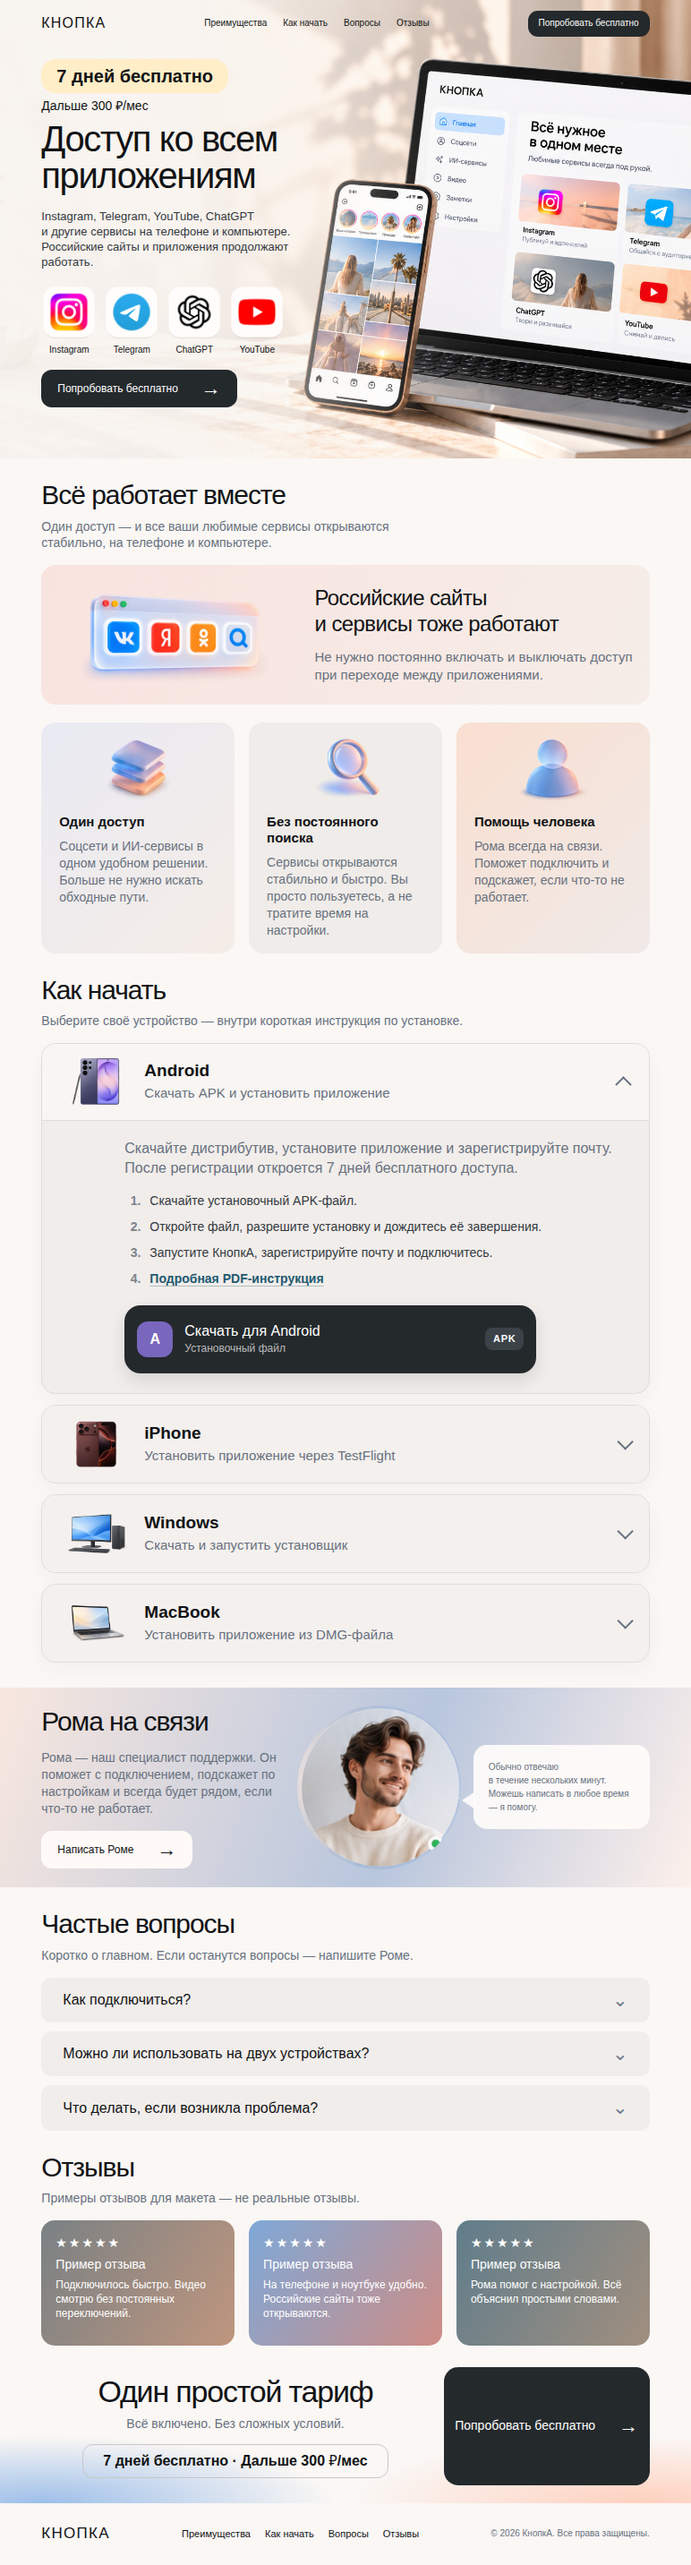
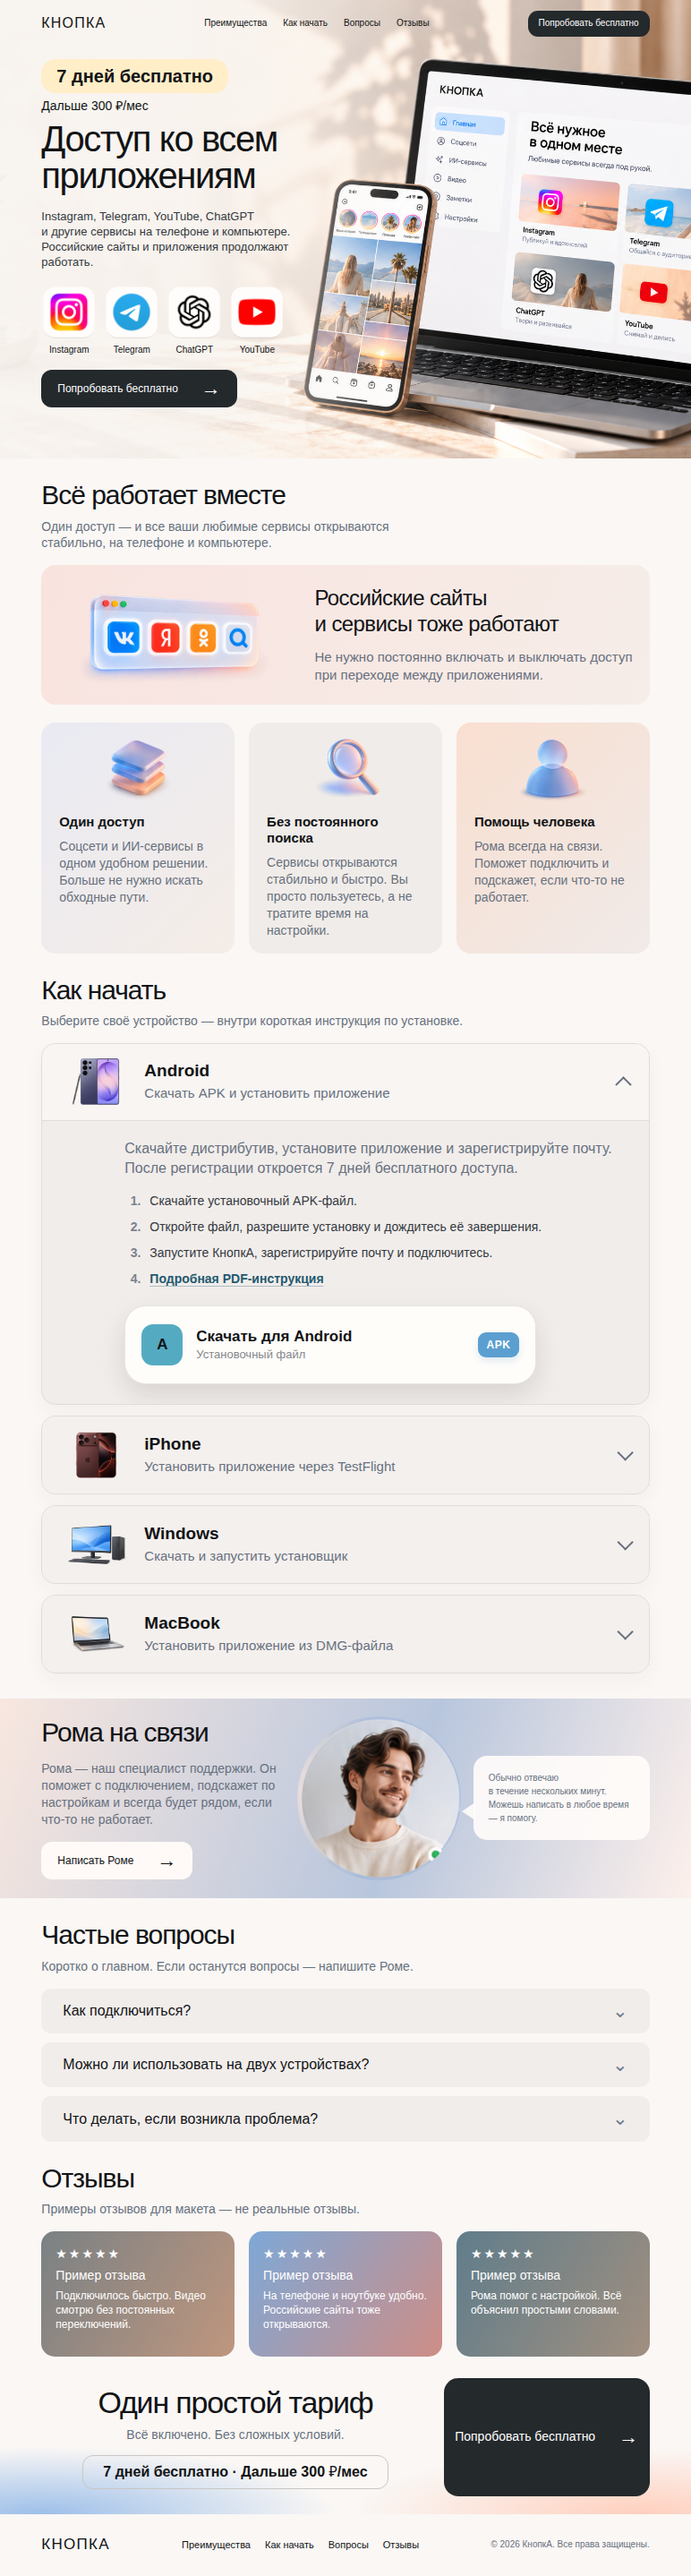
Isolate light platform download cards

diff --git a/Design2.0/version-001-mvp/site/source/styles.css b/Design2.0/version-001-mvp/site/source/styles.css
@@ -25,23 +25,24 @@
 .platform-guide-link{display:inline-flex;align-items:center;gap:6px;color:#1f596f;font-weight:800;text-decoration:underline;text-decoration-color:rgb(31 89 111 / 32%);text-underline-offset:3px}
 .platform-guide-link:hover{text-decoration-color:currentColor}
 .platform-guide-link:focus-visible{border-radius:4px;outline:3px solid rgb(68 139 171 / 28%);outline-offset:3px}
-.platform-download{display:grid;grid-template-columns:40px minmax(0,1fr) auto;align-items:center;justify-content:normal;gap:13px;width:min(100%,460px);min-width:0;min-height:76px;padding:12px 14px;border-radius:18px;text-align:left;box-shadow:0 8px 18px rgb(22 26 29 / 12%)}
-.platform-download .download-mark{display:grid;place-items:center;width:40px;height:40px;border-radius:12px;background:rgb(255 255 255 / 14%);font-size:16px;font-weight:900;line-height:1}
-.platform-download-android .download-mark{background:#7967bd}
+.platform-download{display:grid;grid-template-columns:46px minmax(0,1fr) auto;align-items:center;justify-content:normal;gap:15px;width:min(100%,460px);min-width:0;min-height:88px;padding:15px 18px;border:1px solid rgb(225 220 216 / 78%);border-radius:24px;background:#fffdfa;color:#111315;text-align:left;box-shadow:0 12px 28px rgb(42 36 32 / 12%);transition:transform .16s ease,box-shadow .16s ease}
+.platform-download:hover{transform:translateY(-1px);box-shadow:0 15px 32px rgb(42 36 32 / 15%)}
+.platform-download .download-mark{display:grid;place-items:center;width:46px;height:46px;border-radius:13px;background:#54abc1;color:#101518;font-size:17px;font-weight:900;line-height:1}
+.platform-download-android .download-mark{background:#54abc1}
 .platform-download-iphone .download-mark{background:#a2554e}
-.platform-download-windows .download-mark{background:#4182b4}
+.platform-download-windows .download-mark{background:#5897c4}
 .platform-download-macbook .download-mark{background:#8a817b}
 .platform-download .download-copy{display:grid;gap:3px;min-width:0;font-size:inherit;line-height:1.15;text-align:left}
-.platform-download .download-copy strong{font-size:16px;overflow-wrap:anywhere}
-.platform-download .download-copy small{color:rgb(255 255 255 / 68%);font-size:12px;font-weight:400;line-height:1.2}
-.platform-download .download-file{margin-left:auto;padding:7px 9px;border-radius:8px;background:#3b4248;color:#fff;font-size:11px;font-weight:900;letter-spacing:.06em;line-height:1}
+.platform-download .download-copy strong{font-size:17px;overflow-wrap:anywhere}
+.platform-download .download-copy small{color:#85888d;font-size:13px;font-weight:400;line-height:1.2}
+.platform-download .download-file{margin-left:auto;padding:8px 10px;border-radius:9px;background:#5b9fd0;color:#fff;font-size:12px;font-weight:900;letter-spacing:.04em;line-height:1;box-shadow:0 4px 10px rgb(91 159 208 / 20%)}
 .tariff-layout{display:grid;grid-template-columns:max-content minmax(300px,360px);justify-content:center;gap:32px;align-items:stretch}
 .tariff-copy{display:flex;flex-direction:column;align-items:center;justify-content:center;padding:8px 0;text-align:center}
 .tariff-copy .tariff-price{margin-top:5px}
 .tariff .tariff-cta{align-self:stretch;min-height:100%;margin-top:0;border-radius:16px;font-size:17px}
 @media(min-width:701px) and (max-width:1000px){.tariff-layout{grid-template-columns:minmax(0,1fr) 230px;gap:16px}.tariff .tariff-cta{font-size:14px}}
-@media(max-width:700px){.platform-accordions{gap:10px}.platform-accordion summary{min-height:76px;padding:11px 14px;gap:12px}.platform-mark{flex-basis:64px;width:64px;height:48px}.platform-mark svg{width:28px;height:28px}.platform-mark img{width:64px;height:46px}.platform-heading strong{font-size:17px}.platform-heading span{font-size:13px;line-height:1.3}.platform-content{padding:17px 16px 19px}.platform-content>p{padding:0;font-size:15px}.platform-content ol{gap:9px;margin:15px 0 18px;padding-left:21px;font-size:15px}.platform-download{grid-template-columns:38px minmax(0,1fr) auto;width:100%;min-width:0;min-height:72px;padding:10px 11px;gap:10px}.platform-download .download-mark{width:38px;height:38px}.platform-download .download-copy strong{font-size:14px}.platform-download .download-copy small{font-size:11px}.platform-download .download-file{padding:6px 7px;font-size:10px}.tariff-layout{grid-template-columns:1fr;gap:14px}.tariff-copy{align-items:center;padding:0;text-align:center}.tariff .tariff-cta{width:100%;min-height:62px;font-size:16px}}
-@media(prefers-reduced-motion:reduce){.platform-accordion summary::after{transition:none}}
+@media(max-width:700px){.platform-accordions{gap:10px}.platform-accordion summary{min-height:76px;padding:11px 14px;gap:12px}.platform-mark{flex-basis:64px;width:64px;height:48px}.platform-mark svg{width:28px;height:28px}.platform-mark img{width:64px;height:46px}.platform-heading strong{font-size:17px}.platform-heading span{font-size:13px;line-height:1.3}.platform-content{padding:17px 16px 19px}.platform-content>p{padding:0;font-size:15px}.platform-content ol{gap:9px;margin:15px 0 18px;padding-left:21px;font-size:15px}.platform-download{grid-template-columns:42px minmax(0,1fr) auto;width:100%;min-width:0;min-height:78px;padding:11px 12px;gap:11px;border-radius:20px}.platform-download .download-mark{width:42px;height:42px}.platform-download .download-copy strong{font-size:14px}.platform-download .download-copy small{font-size:11px}.platform-download .download-file{padding:7px 8px;font-size:10px}.tariff-layout{grid-template-columns:1fr;gap:14px}.tariff-copy{align-items:center;padding:0;text-align:center}.tariff .tariff-cta{width:100%;min-height:62px;font-size:16px}}
+@media(prefers-reduced-motion:reduce){.platform-accordion summary::after,.platform-download{transition:none}.platform-download:hover{transform:none}}
 
 /* Hero v3: one full-width photographic surface beneath header and copy. */
 .hero-wrap{isolation:isolate;min-height:700px;background:#f6efe9}

diff --git a/Design2.0/version-001-mvp/site/source/index.html b/Design2.0/version-001-mvp/site/source/index.html
@@ -59,7 +59,7 @@
               <li>Запустите КнопкА, зарегистрируйте почту и подключитесь.</li>
               <li><a class="platform-guide-link" href="../assets/installation-android.pdf" target="_blank" rel="noopener">Подробная PDF-инструкция</a></li>
             </ol>
-            <button type="button" class="button platform-download platform-download-android">
+            <button type="button" class="platform-download platform-download-android">
               <span class="download-mark" aria-hidden="true">A</span>
               <span class="download-copy"><strong>Скачать для Android</strong><small>Установочный файл</small></span>
               <span class="download-file" aria-hidden="true">APK</span>
@@ -82,7 +82,7 @@
               <li>Откройте КнопкА, зарегистрируйте почту и подключитесь.</li>
               <li><a class="platform-guide-link" href="../assets/installation-iphone.pdf" target="_blank" rel="noopener">Подробная PDF-инструкция</a></li>
             </ol>
-            <button type="button" class="button platform-download platform-download-iphone">
+            <button type="button" class="platform-download platform-download-iphone">
               <span class="download-mark" aria-hidden="true">i</span>
               <span class="download-copy"><strong>Открыть TestFlight</strong><small>Установка на iPhone</small></span>
               <span class="download-file" aria-hidden="true">iOS</span>
@@ -104,7 +104,7 @@
               <li>Завершите установку и откройте ярлык КнопкА на рабочем столе.</li>
               <li>Зарегистрируйте почту и подключитесь.</li>
             </ol>
-            <button type="button" class="button platform-download platform-download-windows">
+            <button type="button" class="platform-download platform-download-windows">
               <span class="download-mark" aria-hidden="true">W</span>
               <span class="download-copy"><strong>Скачать для Windows</strong><small>Установщик приложения</small></span>
               <span class="download-file" aria-hidden="true">EXE</span>
@@ -128,7 +128,7 @@
               <li>Зарегистрируйте почту и подключитесь.</li>
               <li><a class="platform-guide-link" href="../assets/installation-macbook.pdf" target="_blank" rel="noopener">Подробная PDF-инструкция</a></li>
             </ol>
-            <button type="button" class="button platform-download platform-download-macbook">
+            <button type="button" class="platform-download platform-download-macbook">
               <span class="download-mark" aria-hidden="true">M</span>
               <span class="download-copy"><strong>Скачать для MacBook</strong><small>Образ приложения</small></span>
               <span class="download-file" aria-hidden="true">DMG</span>

diff --git a/Design2.0/version-001-mvp/site/template/index.html b/Design2.0/version-001-mvp/site/template/index.html
@@ -59,7 +59,7 @@
               <li>Запустите КнопкА, зарегистрируйте почту и подключитесь.</li>
               <li><a class="platform-guide-link" href="../assets/installation-android.pdf" target="_blank" rel="noopener">Подробная PDF-инструкция</a></li>
             </ol>
-            <button type="button" class="button platform-download platform-download-android">
+            <button type="button" class="platform-download platform-download-android">
               <span class="download-mark" aria-hidden="true">A</span>
               <span class="download-copy"><strong>Скачать для Android</strong><small>Установочный файл</small></span>
               <span class="download-file" aria-hidden="true">APK</span>
@@ -82,7 +82,7 @@
               <li>Откройте КнопкА, зарегистрируйте почту и подключитесь.</li>
               <li><a class="platform-guide-link" href="../assets/installation-iphone.pdf" target="_blank" rel="noopener">Подробная PDF-инструкция</a></li>
             </ol>
-            <button type="button" class="button platform-download platform-download-iphone">
+            <button type="button" class="platform-download platform-download-iphone">
               <span class="download-mark" aria-hidden="true">i</span>
               <span class="download-copy"><strong>Открыть TestFlight</strong><small>Установка на iPhone</small></span>
               <span class="download-file" aria-hidden="true">iOS</span>
@@ -104,7 +104,7 @@
               <li>Завершите установку и откройте ярлык КнопкА на рабочем столе.</li>
               <li>Зарегистрируйте почту и подключитесь.</li>
             </ol>
-            <button type="button" class="button platform-download platform-download-windows">
+            <button type="button" class="platform-download platform-download-windows">
               <span class="download-mark" aria-hidden="true">W</span>
               <span class="download-copy"><strong>Скачать для Windows</strong><small>Установщик приложения</small></span>
               <span class="download-file" aria-hidden="true">EXE</span>
@@ -128,7 +128,7 @@
               <li>Зарегистрируйте почту и подключитесь.</li>
               <li><a class="platform-guide-link" href="../assets/installation-macbook.pdf" target="_blank" rel="noopener">Подробная PDF-инструкция</a></li>
             </ol>
-            <button type="button" class="button platform-download platform-download-macbook">
+            <button type="button" class="platform-download platform-download-macbook">
               <span class="download-mark" aria-hidden="true">M</span>
               <span class="download-copy"><strong>Скачать для MacBook</strong><small>Образ приложения</small></span>
               <span class="download-file" aria-hidden="true">DMG</span>
